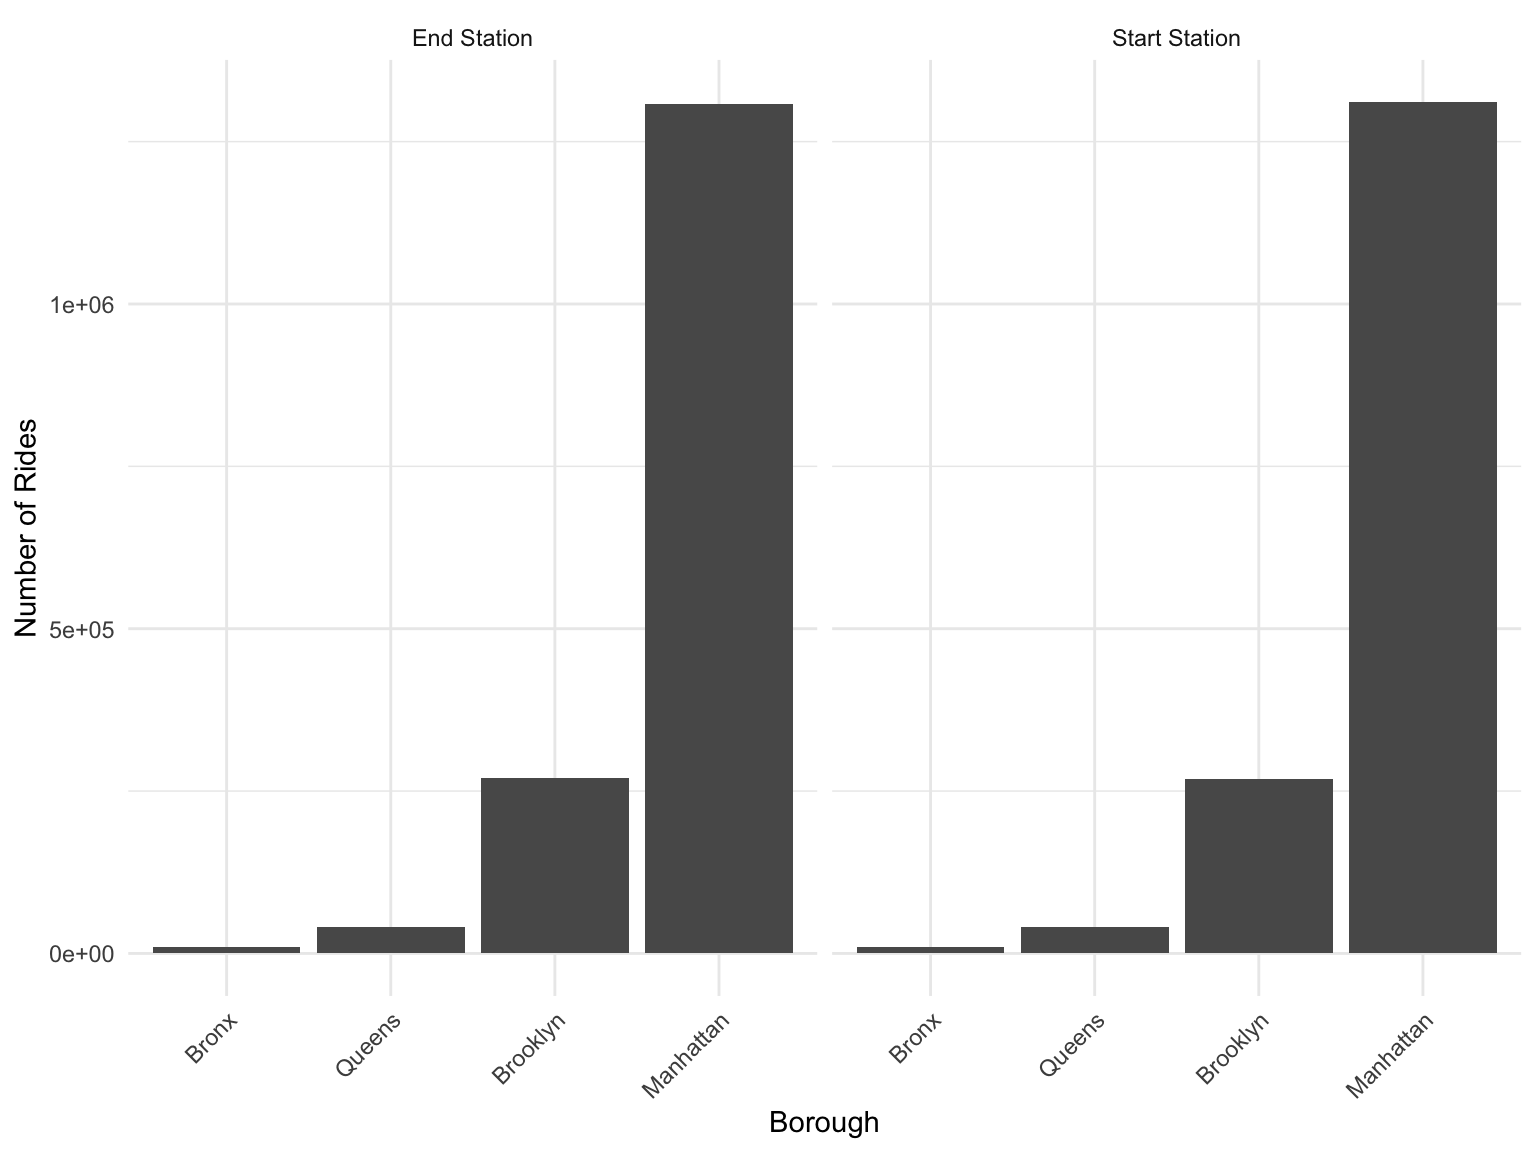
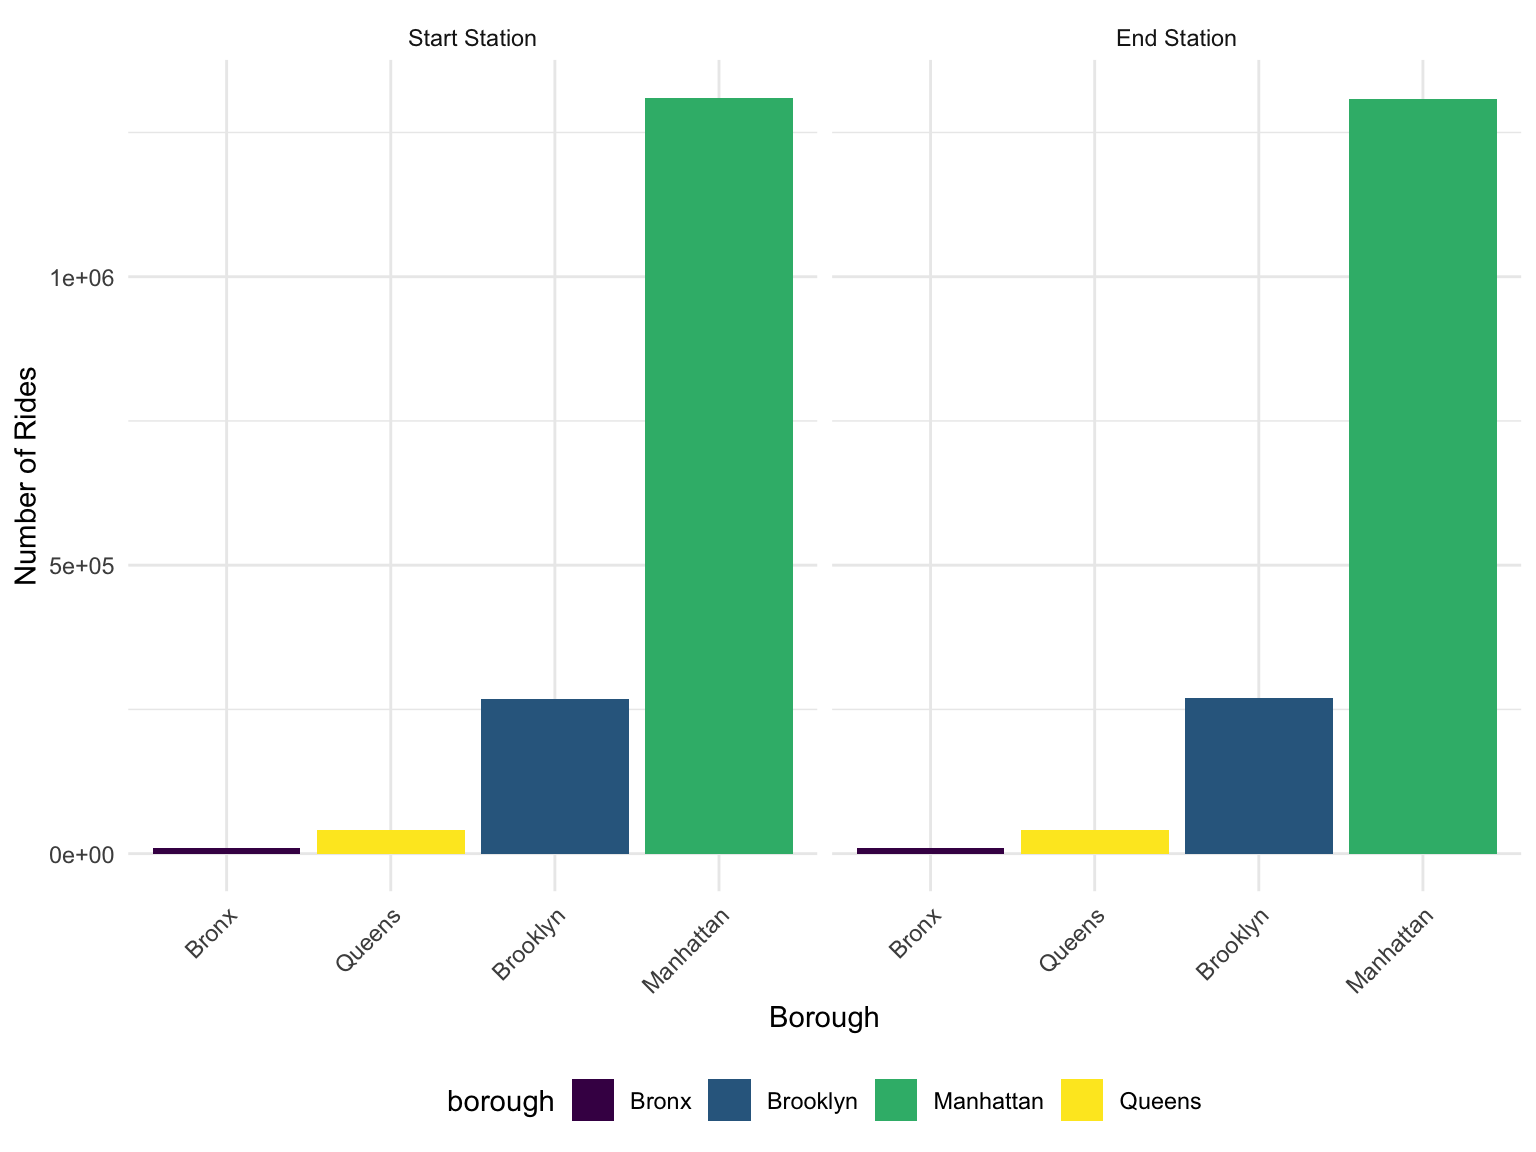
edit analysis page

diff --git a/analysis.html b/analysis.html
@@ -546,26 +546,26 @@ combined_df &lt;- bind_rows(
   citibike_df %&gt;%
     group_by(borough = start_borough) %&gt;%
     summarise(n_rides = n()) %&gt;%
-    top_n(10, wt = n_rides) %&gt;%
     mutate(station_type = &quot;Start Station&quot;),
   citibike_df %&gt;%
     group_by(borough = end_borough) %&gt;%
     summarise(n_rides = n()) %&gt;%
-    top_n(10, wt = n_rides) %&gt;%
     mutate(station_type = &quot;End Station&quot;)
-)
+)|&gt;
+  mutate(station_type = factor(station_type, levels = c(&quot;Start Station&quot;, &quot;End Station&quot;)))
 
 # Create faceted plot
-ggplot(combined_df, aes(x = reorder(borough, n_rides), y = n_rides)) +
+ggplot(combined_df, aes(x = reorder(borough, n_rides), y = n_rides, fill = borough)) +
   geom_bar(stat = &quot;identity&quot;) +
   labs(x = &quot;Borough&quot;, y = &quot;Number of Rides&quot;) +
   theme(axis.text.x = element_text(angle = 45, hjust = 1)) +
-  facet_wrap(~station_type, scales = &quot;free_x&quot;)</code></pre>
+  scale_fill_viridis_d() +  # Using viridisLite for discrete color palette
+  facet_wrap(~station_type, scales = &quot;free_x&quot;) +
+  theme(legend.position = &quot;bottom&quot;) </code></pre>
 <p><img src="analysis_files/figure-html/graph%20of%20station%20stop/start%20per%20borough-1.png" width="90%" /></p>
-<p>Here are the most popular starting and stopping stations in September
-2019 - also in Manhattan.</p>
-<pre class="r"><code># Assuming citibike_df is your dataframe
-combined_df &lt;- bind_rows(
+<p>Here are the 10 most popular starting and stopping stations in
+September 2019 - also in Manhattan.</p>
+<pre class="r"><code>combined_df &lt;- bind_rows(
   citibike_df %&gt;%
     group_by(station = start_station_name) %&gt;%
     summarise(n_rides = n()) %&gt;%
@@ -576,14 +576,16 @@ combined_df &lt;- bind_rows(
     summarise(n_rides = n()) %&gt;%
     top_n(10, wt = n_rides) %&gt;%
     mutate(station_type = &quot;End Station&quot;)
-)
+)|&gt;
+  mutate(station_type = factor(station_type, levels = c(&quot;Start Station&quot;, &quot;End Station&quot;)))
 
-# Create faceted plot
-ggplot(combined_df, aes(x = reorder(station, n_rides), y = n_rides)) +
-  geom_bar(stat = &quot;identity&quot;)  +
+ggplot(combined_df, aes(x = reorder(station, n_rides), y = n_rides, fill = station)) +
+  geom_bar(stat = &quot;identity&quot;) +
   labs(x = &quot;Station&quot;, y = &quot;Number of Rides&quot;) +
   theme(axis.text.x = element_text(angle = 45, hjust = 1)) +
-  facet_wrap(~station_type, scales = &quot;free_x&quot;)</code></pre>
+  scale_fill_viridis(discrete = TRUE) + 
+  facet_wrap(~station_type, scales = &quot;free_x&quot;) +
+  theme(legend.position = &quot;bottom&quot;)</code></pre>
 <p><img src="analysis_files/figure-html/start%20stations-1.png" width="90%" /></p>
 <p>Add in plot for rides per day of the week here:</p>
 </div>
@@ -598,6 +600,7 @@ citibike_df %&gt;%
 ggplot(aes(x = user_type, y = n_rides, fill = user_type)) +
   geom_bar(stat = &quot;identity&quot;) +
   scale_y_continuous(labels = scales::comma_format()) +
+  scale_fill_viridis(discrete = TRUE) +
   labs(x = &quot;User Type&quot;, y = &quot;Number of Rides&quot;, title = &quot;User Type Distribution&quot;)</code></pre>
 <p><img src="analysis_files/figure-html/rider%20per%20subscriber-1.png" width="90%" /></p>
 <p>Here is a graph of number of rides per gender: Males take the most
@@ -606,36 +609,63 @@ rides!</p>
   group_by(gender) %&gt;%
   summarise(n_rides = n()) |&gt;ggplot(aes(x = gender, y = n_rides, fill = gender)) +
   geom_bar(stat = &quot;identity&quot;) +
-  scale_fill_manual(values = c(&quot;Male&quot; = &quot;blue&quot;, &quot;Female&quot; = &quot;red&quot;, &quot;Unknown&quot; = &quot;yellow&quot;)) +
+   scale_fill_viridis(discrete = TRUE) +
   scale_y_continuous(labels = scales::comma_format()) +
   labs(x = &quot;Gender&quot;, y = &quot;Number of Rides&quot;, title = &quot;Gender Distribution&quot;)</code></pre>
 <p><img src="analysis_files/figure-html/rides%20per%20gender-1.png" width="90%" /></p>
 <p>This graph shows the distribution of ages: 30 year olds and 50 year
 olds use citibike the most!</p>
-<pre class="r"><code>ggplot(citibike_df, aes(x = age)) +
-  geom_histogram(binwidth = 5, fill = &quot;skyblue&quot;, color = &quot;black&quot;, alpha = 0.7) +
-   scale_x_continuous(limits = c(0, 100), breaks = seq(0, 100, by = 10)) +
+<pre class="r"><code>ggplot(citibike_df, aes(x = age, fill = &quot;Count&quot;)) +
+  geom_histogram(binwidth = 5, alpha = 0.7, color = &quot;black&quot;,) +
+  scale_x_continuous(limits = c(0, 100), breaks = seq(0, 100, by = 10)) +
   scale_y_continuous(labels = scales::comma_format()) +
-  labs(x = &quot;Age&quot;, y = &quot;Number of Rides&quot;, title = &quot;Age Distribution&quot;)</code></pre>
+  labs(x = &quot;Age&quot;, y = &quot;Number of Rides&quot;, title = &quot;Age Distribution&quot;) +
+  scale_fill_viridis(discrete = TRUE) +
+  theme_minimal()</code></pre>
 <p><img src="analysis_files/figure-html/age%20distribution-1.png" width="90%" /></p>
 </div>
 </div>
 <div id="exploring-subsets" class="section level1">
-<h1><span style="color: blue;">Exploring Subsets</span></h1>
+<h1><span style="color: blue;">Exploring Subsets </span></h1>
 <p><a href="exploratory/AirQual_exploratory.html">Air Quality
 index</a></p>
 <p><a href="exploratory/SDI_Exploratory.html">Social deprivation
 Index</a></p>
 <p><a href="exploratory/Weight_exploratory.html">Overweight
 Trends</a></p>
+<p> </p>
+<hr />
+</div>
+<div id="exploring-citibike-with-sdi-overweight-and-aq"
+class="section level1">
+<h1><span style="color: blue;">Exploring Citibike with SDI, Overweight,
+and AQ </span></h1>
+<pre class="r"><code>citibike_df = read_csv(&#39;./citibike_clean/citibike_clean.csv&#39;) |&gt;
+  select(start_station_latitude, start_station_longitude,
+        start_sdi_score, start_percent_overweight, start_aq) |&gt; 
+  rename(lat = start_station_latitude, 
+         long = start_station_longitude,
+         sdi = start_sdi_score,
+         overweight = start_percent_overweight,
+         aq = start_aq) |&gt;
+  unique()
+
+pal = colorNumeric(
+  palette = &quot;viridis&quot;,
+  domain = citibike_df$sdi)
+
+citibike_df |&gt;
+  mutate(text_label = str_c(&quot;SDI: &quot;, sdi, &quot;\nOverweight (%) &quot;, overweight, &quot;\nAQ (PM25): &quot;, aq)) |&gt; 
+  plot_ly(x = ~lat, y = ~long, type = &quot;scatter&quot;, mode = &quot;markers&quot;,
+          color = ~sdi, text = ~text_label)</code></pre>
 <p>And we made an interactive <a
 href="https://courtneyjdiamond.shinyapps.io/ExploratoryDashboard/">dashboard</a>
 to visualize some of these exploratory analyses all together!</p>
 <p> </p>
 <hr />
 </div>
-<div id="modelling" class="section level1">
-<h1><span style="color: blue;">Modelling</span></h1>
+<div id="modeling" class="section level1">
+<h1><span style="color: blue;">Modeling</span></h1>
 <p>We sought to develop linear models that would characterize the number
 of rides per station as a surrogate for utilization of citibikes.
 Predictors included Air quality measures, social deprivation index, and
